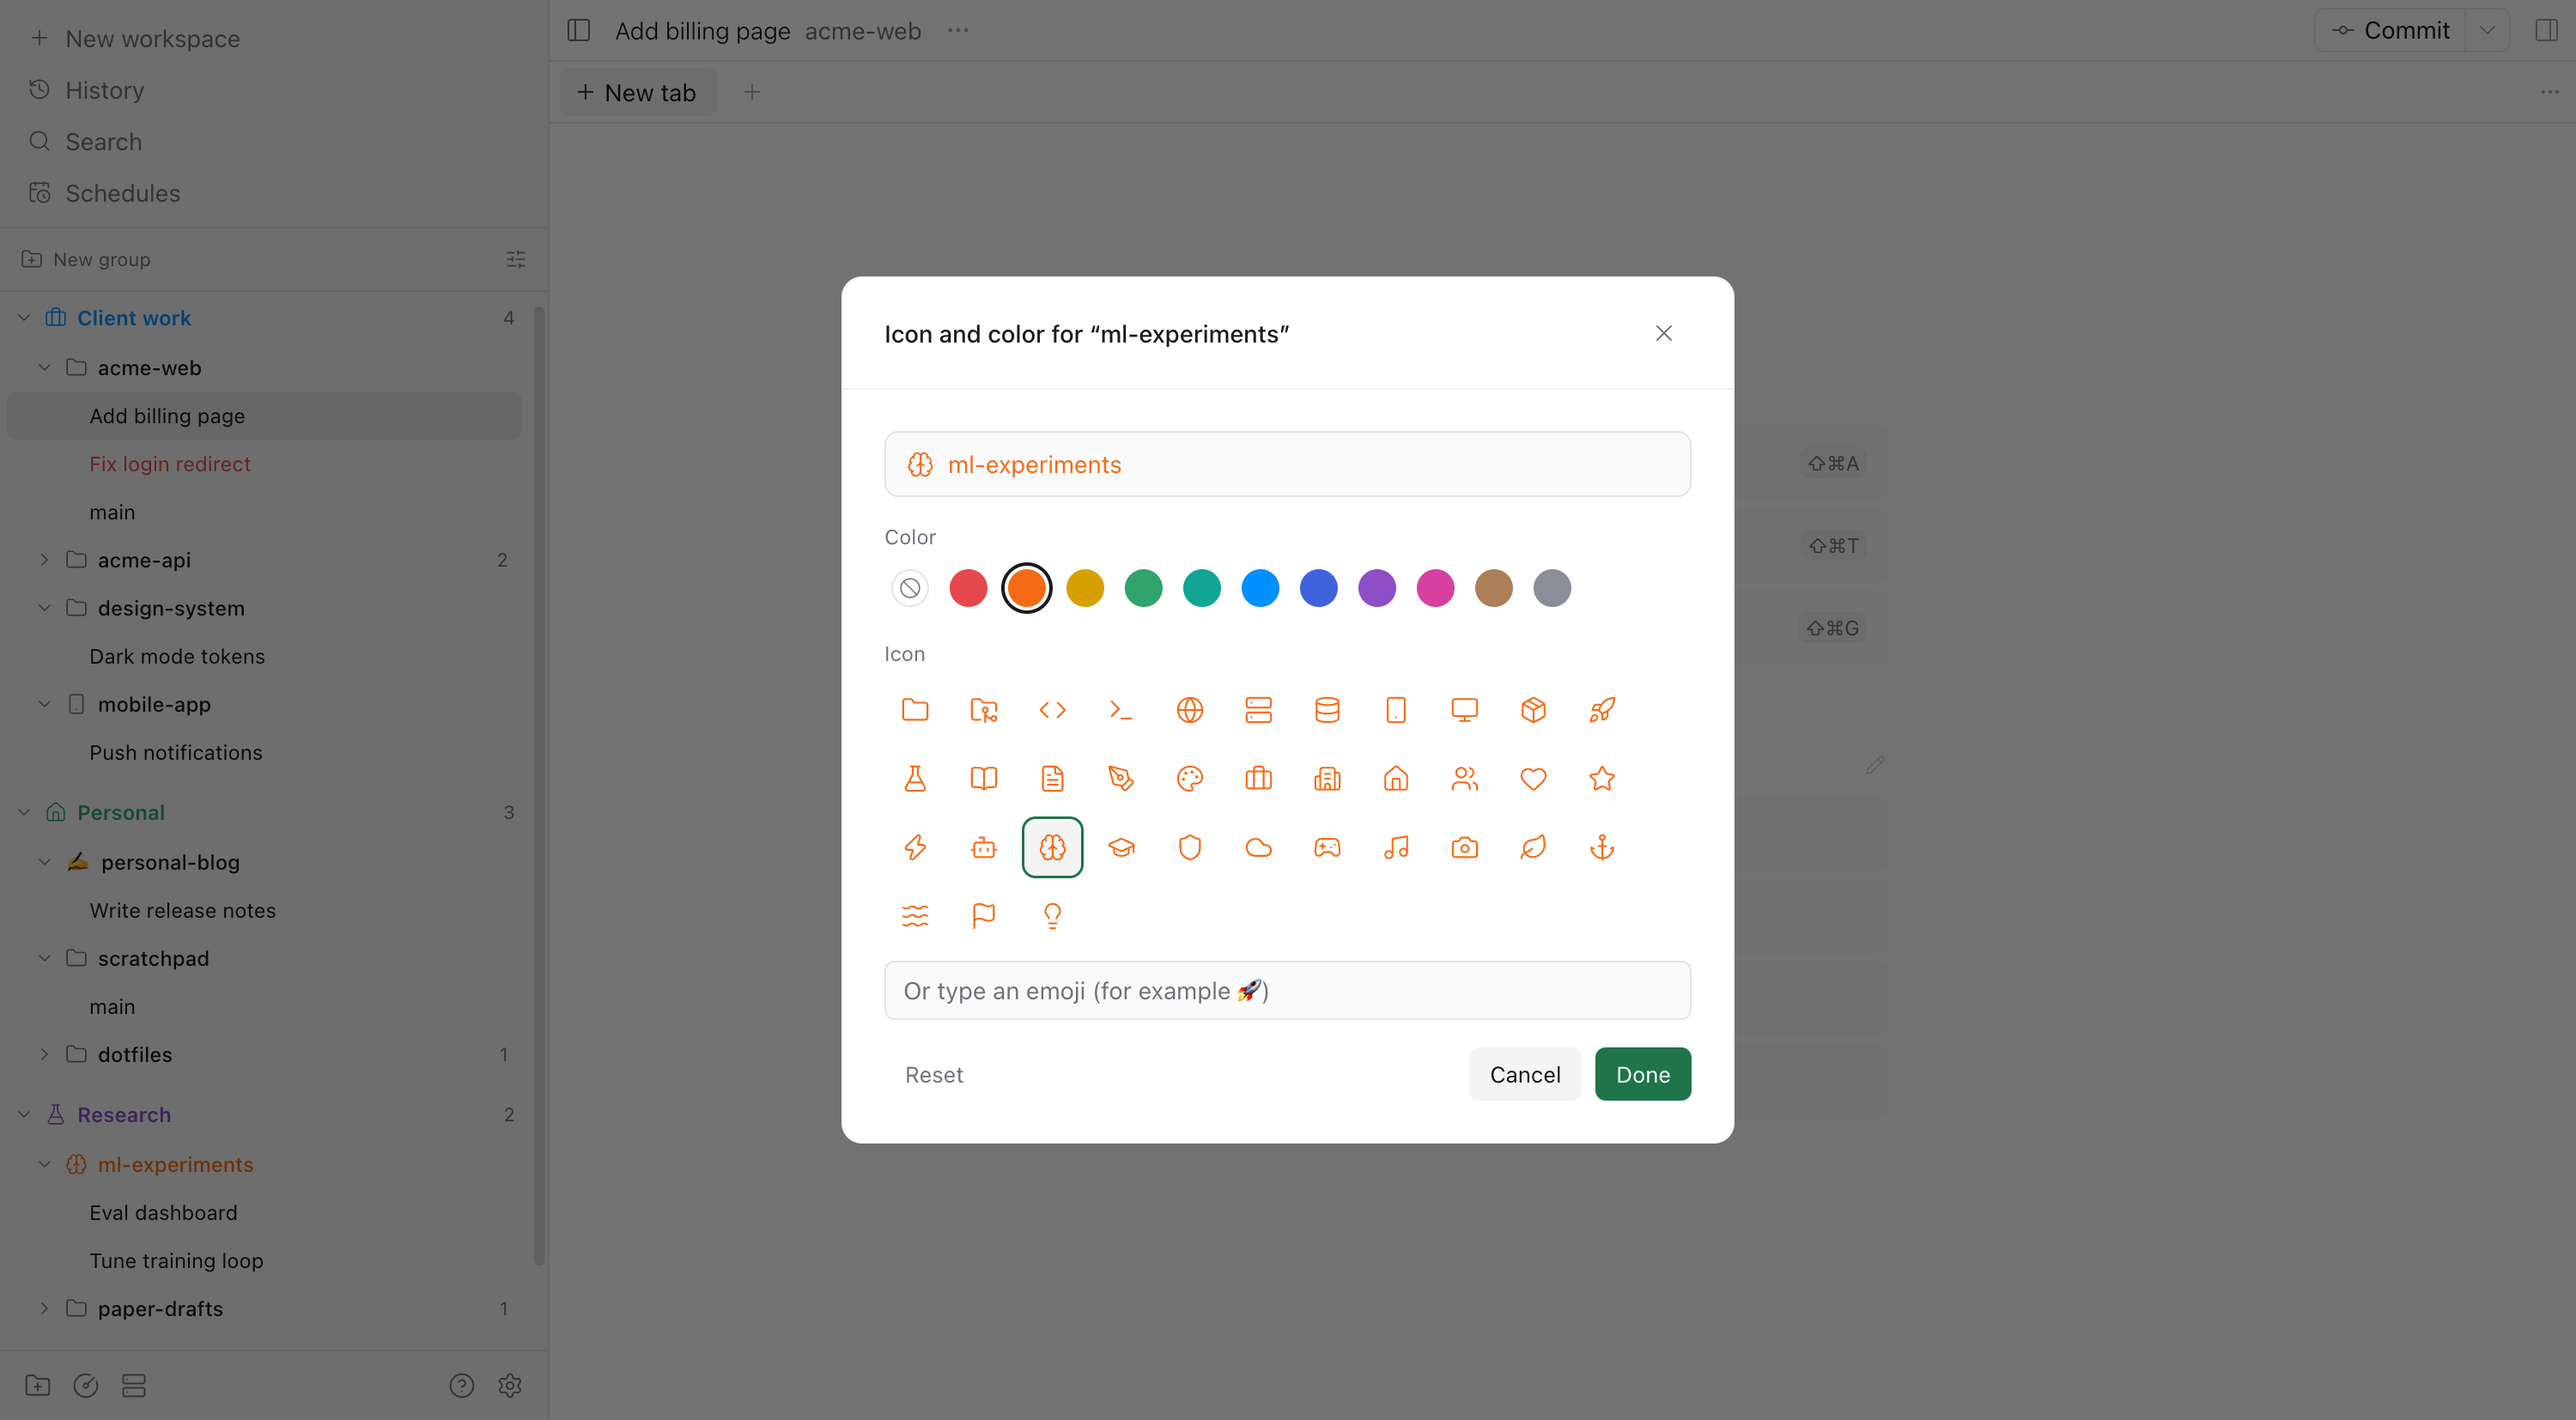
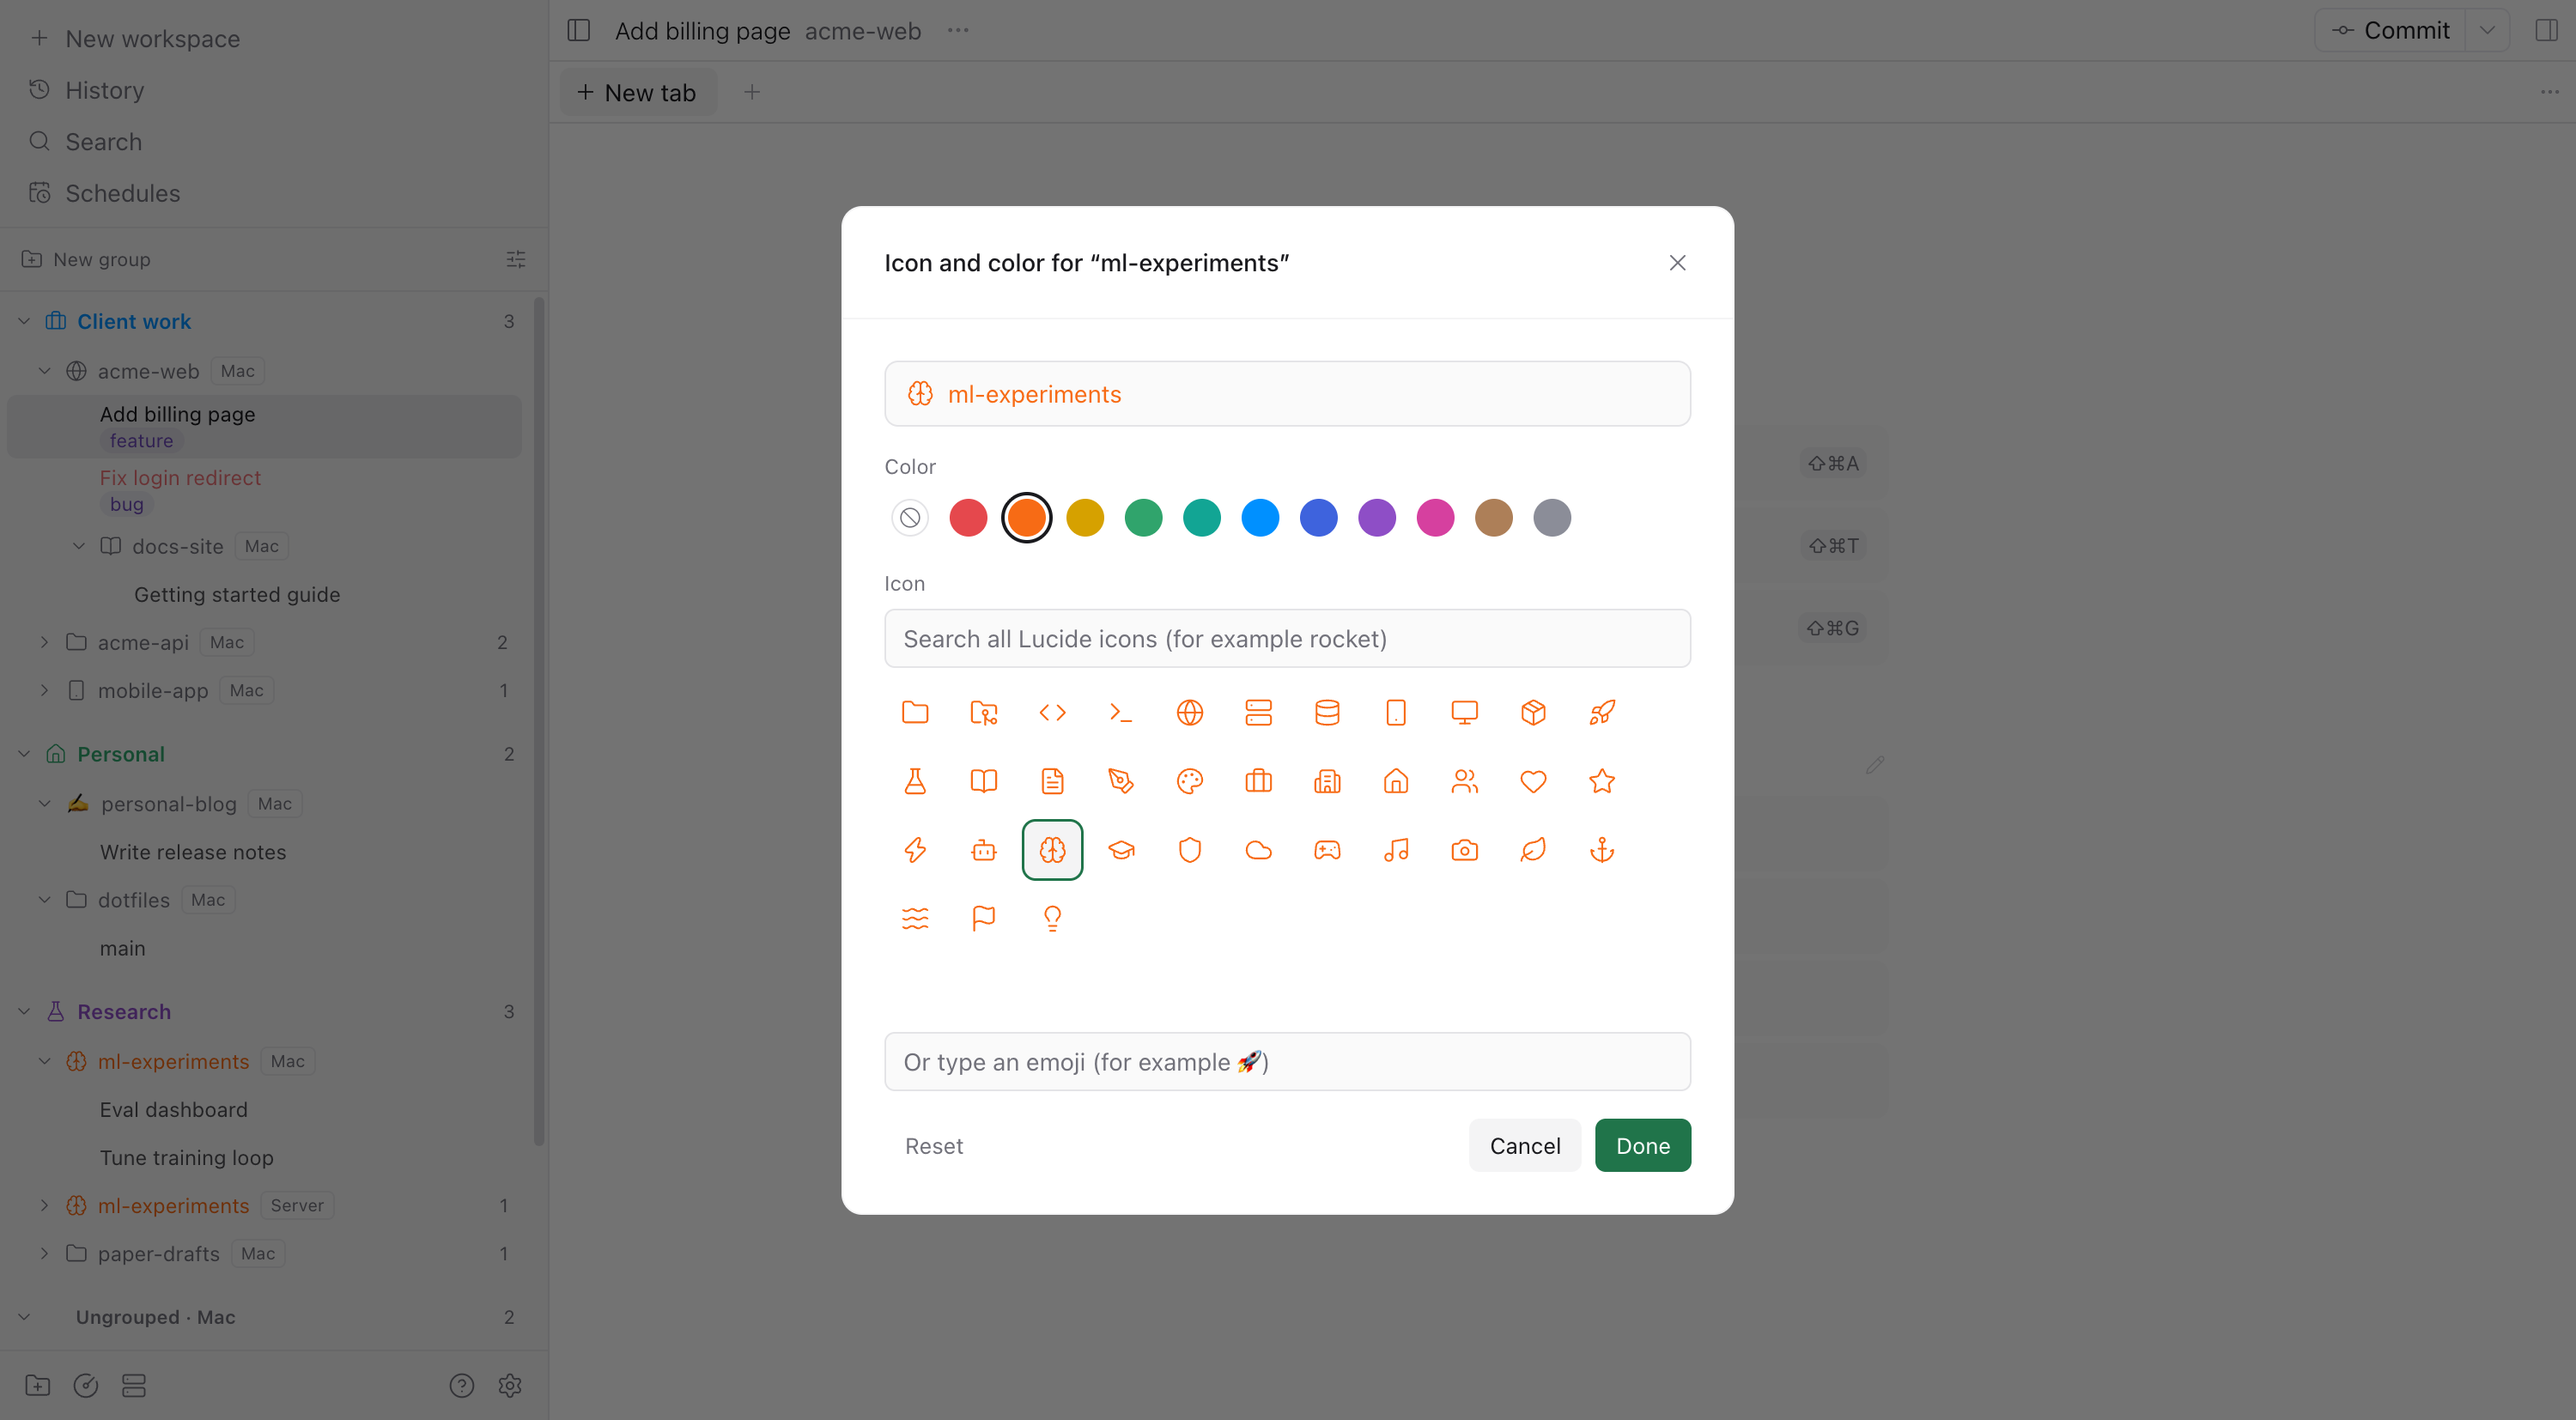
Update docs and screenshots for labels, read state and workspace options
- Docs: the project menu opens Project settings (desktop and browser only),
  the workspace menu sets labels and marks as read or unread, the settings
  list the new Workspaces section, and the stored-data notes say label
  colors and read state use the same local daemon connection.
- Screenshots: sidebar, drag and colors retaken with the lighter names,
  workspace labels and the icon search field; settings now shows the
  Workspaces section.

diff --git a/OVERVIEW.md b/OVERVIEW.md
@@ -22,7 +22,7 @@ Click **New group** at the top of the sidebar and type a name. Then drag project
 
 Folding a project or group hides its workspaces but not their status. The folded row shows the most urgent one on its icon: needs input, failed, running, or ready to review. Ungrouped does the same. If the workspace you have open is inside, the folded row also gets a light fill, so you can see where it went.
 
-The ⋯ button on a project moves it to another group, puts it under another project, starts a new workspace, copies its path or removes it. The ⋯ button on a workspace renames, pins, copies the path or branch, or archives it.
+The ⋯ button on a project moves it to another group, puts it under another project, starts a new workspace, opens its Project settings, copies its path or removes it. The ⋯ button on a workspace renames it, sets its labels, marks it as read or unread, pins it, copies the path or branch, or archives it. Project settings opens in the desktop app and in a browser; the phone app has no such item, because the plugin can't open that page there.
 
 ## Sub-projects
 
@@ -61,14 +61,15 @@ The sliders button next to New group opens the plugin's settings. You can change
 - space between groups, from none to extra large
 - how far projects and workspaces are indented
 - whether group names are bold
-- which details show: project icons, host name tags, status dots, status on folded rows, changed-line counts, the Pinned section
+- which details show: project icons, host name tags, status dots, status on folded rows, the Pinned section
+- how workspaces show: sorted by name, creation or last prompt; titled by their title or branch name; a branch line and labels under the name; changed lines, last activity or nothing right of the name; and whether background workspaces show
 - the language: same as the app, English, Korean or Simplified Chinese
 
 Settings are saved per device, so your phone and your computer can look different.
 
 ## What it stores
 
-Groups, their order, colors and icons are saved in the plugin's settings on the daemon. Every app connected to that daemon sees the same groups. Which groups are folded is saved per device. Project images come from the daemon running the plugin, over a local connection that uses Paseo's own installed modules. Nothing goes to an outside service. When an image can't be read, the folder icon shows instead.
+Groups, their order, colors and icons are saved in the plugin's settings on the daemon. Every app connected to that daemon sees the same groups. Which groups are folded is saved per device. Project images come from the daemon running the plugin, over a local connection that uses Paseo's own installed modules. Nothing goes to an outside service. When an image can't be read, the folder icon shows instead. Label colors and marking a workspace as read or unread use the same local connection, because the plugin API has neither. A daemon only answers for its own host, so on another host labels show without colors.
 
 Removing a project runs `paseo project delete` on the daemon's machine, because the plugin API has no call for it. Paseo archives the project's workspaces and leaves the project folder on disk. Worktrees that Paseo created for those workspaces can be deleted when they are archived. The confirm dialog tells you this before anything happens.
 

diff --git a/OVERVIEW.zh-CN.md b/OVERVIEW.zh-CN.md
@@ -13,8 +13,8 @@
 - 项目或分组折叠后，图标上会显示其工作区中最紧急的状态（需要输入、失败、运行中、待查看）。未分组也一样。
 - 当前打开的工作区若在折叠行内，该行会显示浅色底色，方便找到它。
 - 新项目和未分类项目显示在**未分组**中。删除分组时，项目会移回此处。
-- 项目的 ⋯ 菜单可移动分组、放到其他项目下、新建工作区、复制路径或移除项目。
-- 工作区的 ⋯ 菜单可重命名、置顶、复制路径或分支名，以及归档。
+- 项目的 ⋯ 菜单可移动分组、放到其他项目下、新建工作区、打开项目设置、复制路径或移除项目。项目设置只在桌面应用和浏览器中可用，手机应用中不显示。
+- 工作区的 ⋯ 菜单可重命名、设置标签、标为已读或未读、置顶、复制路径或分支名，以及归档。
 
 ## 子项目
 
@@ -44,13 +44,13 @@
 
 ## 外观
 
-点击**新建分组**旁的设置按钮，可调整字号（11–15 磅）、行高、分组间距和缩进，并选择是否显示加粗分组名、项目图标、主机名标签、状态点、折叠行的状态、变更行数和置顶区域。
+点击**新建分组**旁的设置按钮，可调整字号（11–15 磅）、行高、分组间距和缩进，并选择是否显示加粗分组名、项目图标、主机名标签、状态点、折叠行的状态和置顶区域。工作区可按名称、创建时间或最后提示排序，标题可用标题或分支名，名称下可显示分支和标签，名称右侧可显示变更行数、最后活动或不显示，还可选择是否显示后台工作区。
 
 语言支持跟随应用，或手动选择 English、한국어、简体中文。外观和语言按设备保存，手机与电脑可分别设置。
 
 ## 数据
 
-分组、排序、颜色和图标保存在守护进程的插件设置中，同一主机的各客户端共享。折叠状态按设备保存。读取项目图像时，插件通过 Paseo 自带模块连接本机守护进程，不访问外部服务；模块不可用时显示文件夹。
+分组、排序、颜色和图标保存在守护进程的插件设置中，同一主机的各客户端共享。折叠状态按设备保存。读取项目图像时，插件通过 Paseo 自带模块连接本机守护进程，不访问外部服务；模块不可用时显示文件夹。标签颜色和已读状态也通过同一本机连接获取，因为插件 API 不提供这两项；守护进程只回答自己主机的数据，其他主机的标签不显示颜色。
 
 移除项目会在主机上执行 `paseo project delete`，归档该项目的工作区，保留磁盘上的项目文件夹。归档时，Paseo 创建的工作树文件夹可能被删除，确认弹窗会提前提示。
 

diff --git a/README.md b/README.md
@@ -27,8 +27,8 @@ Installing does not change the sidebar. Open **Settings → Sidebar** and set **
 - Give groups and projects a color and an icon (any Lucide icon, searchable by name) or emoji. Workspaces get a color.
 - Projects use their Paseo image unless you choose a plugin icon or emoji.
 - Folded projects and groups show the most urgent workspace status on their icon, and a light fill when they hold the workspace you have open.
-- Use the ⋯ menus to move, rename, pin, archive or remove things.
-- Change text size, row height, space between groups and indentation per device.
+- Use the ⋯ menus to move, rename, label, pin, archive or remove things, mark a workspace as read or unread, and open a project's settings.
+- Change text size, row height, space between groups and indentation per device, and how workspaces are sorted, titled and labeled, like in Paseo's own sidebar.
 - Read the plugin in English, Korean or Simplified Chinese.
 
 On a phone or tablet, long-press a name before dragging. A quick swipe scrolls the list.
@@ -39,7 +39,7 @@ Paseo 0.16 or later on both the daemon and the app, with plugins enabled. Sideba
 
 ## Data
 
-Groups, colors and icons are saved in the plugin's settings on the daemon, so every connected app sees the same groups. Appearance and folding are saved per device. Removing a project runs `paseo project delete` on the daemon's machine, since the plugin API has no call for it. When a sub-project's parent is missing from the list, the plugin asks that daemon (with `paseo daemon status` and `paseo project ls`) whether the parent still exists, and cleans up only when the daemon says it doesn't. Project icons are read from that daemon over a local connection; no external service is contacted.
+Groups, colors and icons are saved in the plugin's settings on the daemon, so every connected app sees the same groups. Appearance and folding are saved per device. Removing a project runs `paseo project delete` on the daemon's machine, since the plugin API has no call for it. When a sub-project's parent is missing from the list, the plugin asks that daemon (with `paseo daemon status` and `paseo project ls`) whether the parent still exists, and cleans up only when the daemon says it doesn't. Project icons, label colors and read state go through a local connection to that daemon; no external service is contacted.
 
 Uninstalling the plugin deletes the saved groups. To get a new version, use `paseo plugin update project-groups` instead.
 
